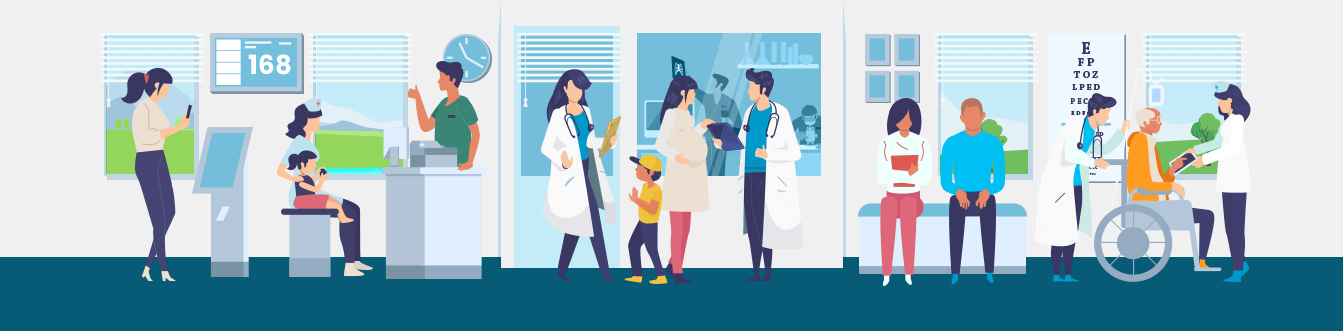
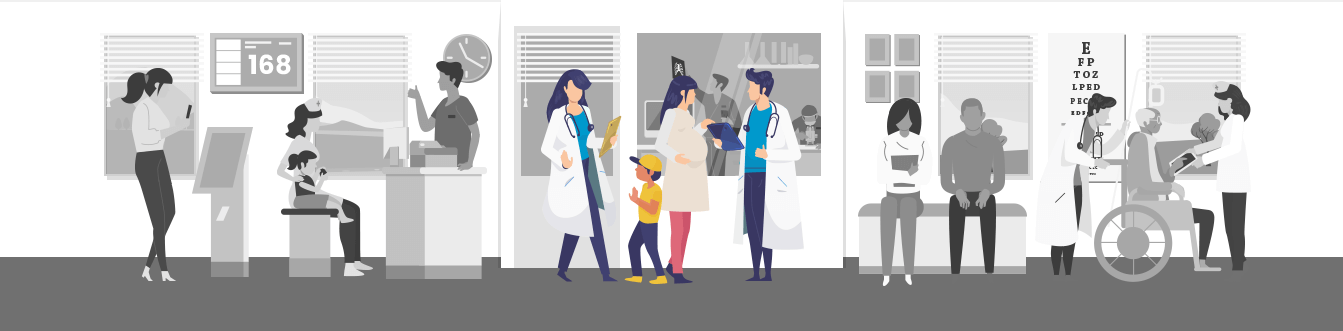
refactor: replace usp image

diff --git a/src/components/commons/usp.vue b/src/components/commons/usp.vue
@@ -118,7 +118,7 @@ export default {
 }
 .offset-container {
   height: 15vh;
-  background-color: #075b76;
+  background-color: #707070;
 }
 .btnHeight {
   height: 50px;

diff --git a/src/components/home/health-suites/index.vue b/src/components/home/health-suites/index.vue
@@ -42,7 +42,7 @@ export default {
 
 <style scoped>
 .health-suites {
-  background-color: #075b76;
+  background-color: #707070;
   padding-bottom: 100px;
 }
 
